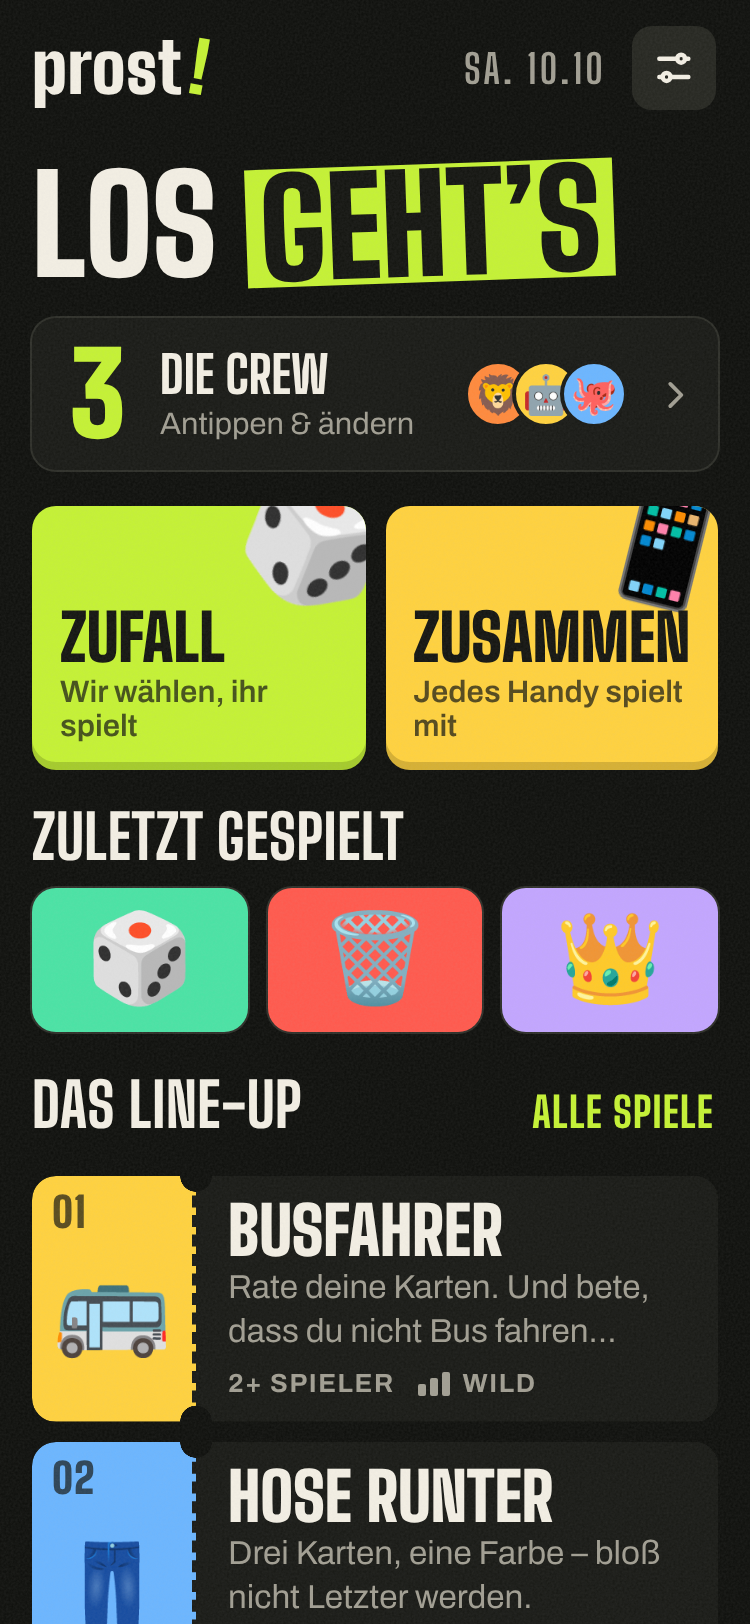
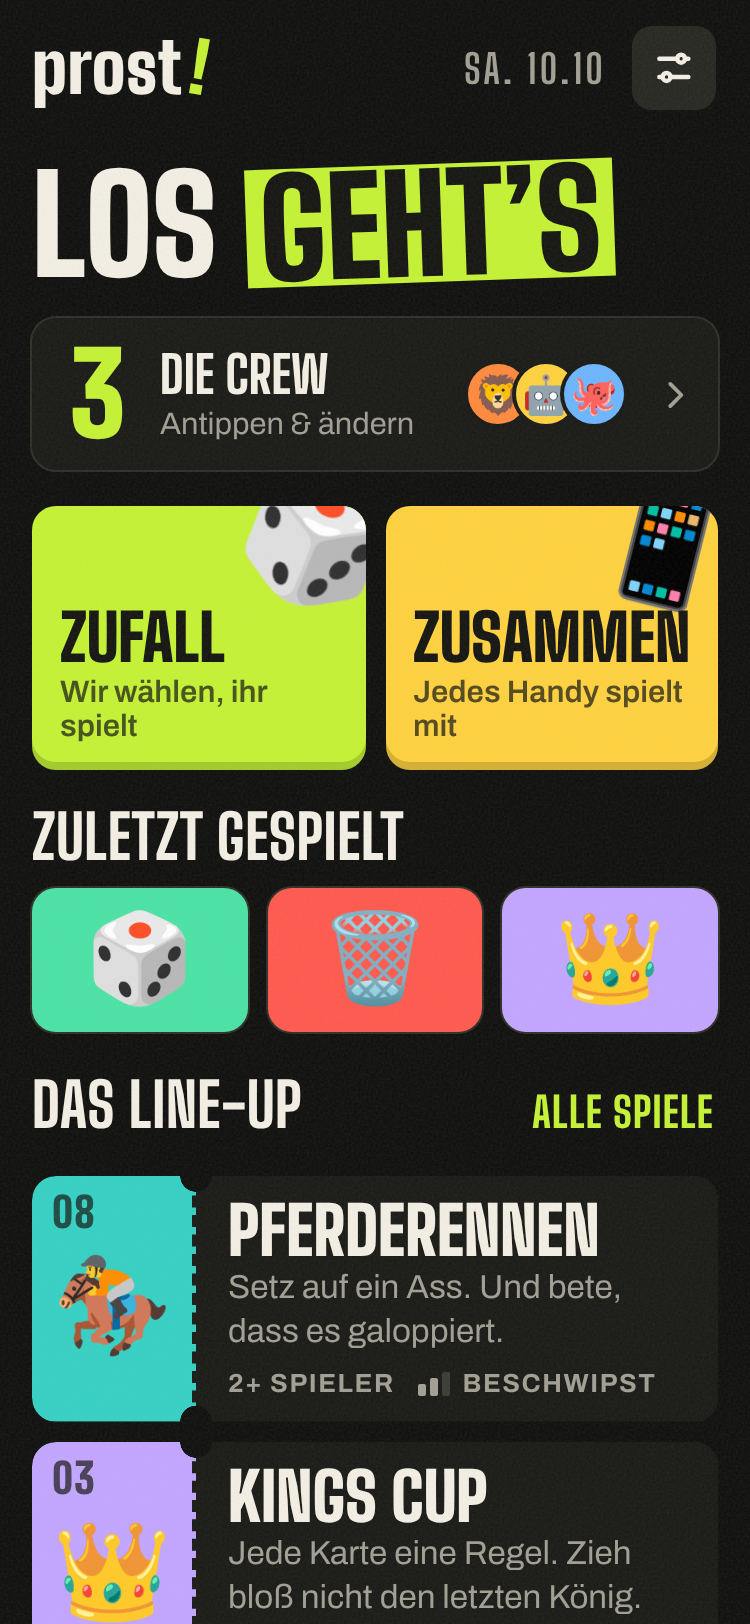
Home: a line-up of five random games that changes every few hours; All games: plain category chips, the picked one lime
Claude-Session: https://claude.ai/code/session_012V2LcTTs5UNWAkt63McFeS

Changed region(s): [[0.0307, 0.7081, 0.276, 1.0], [0.3067, 0.8929, 0.8587, 1.0], [0.3067, 0.7389, 0.8587, 0.8621]]

diff --git a/src/lib/lineup.test.ts b/src/lib/lineup.test.ts
@@ -1,0 +1,49 @@
+import { beforeEach, describe, expect, it } from 'vitest';
+import { lineup, LINEUP_SIZE } from './lineup';
+
+// Tests run without a browser: a plain stand-in for localStorage.
+const store = new Map<string, string>();
+globalThis.localStorage = {
+  getItem: (k: string) => store.get(k) ?? null,
+  setItem: (k: string, v: string) => void store.set(k, v),
+  removeItem: (k: string) => void store.delete(k),
+  clear: () => store.clear(),
+  key: () => null,
+  get length() {
+    return store.size;
+  },
+} as Storage;
+
+const GAMES = ['a', 'b', 'c', 'd', 'e', 'f', 'g', 'h'];
+const HOUR = 60 * 60 * 1000;
+
+describe('line-up', () => {
+  beforeEach(() => localStorage.clear());
+
+  it('shows five different playable games', () => {
+    const ids = lineup(GAMES, 0);
+    expect(ids).toHaveLength(LINEUP_SIZE);
+    expect(new Set(ids).size).toBe(LINEUP_SIZE);
+    expect(ids.every((id) => GAMES.includes(id))).toBe(true);
+  });
+
+  it('stays the same for a few hours, then changes', () => {
+    const first = lineup(GAMES, 0);
+    expect(lineup(GAMES, 5 * HOUR)).toEqual(first);
+    const later = lineup(GAMES, 7 * HOUR);
+    // The three games left out last time all come in.
+    expect(GAMES.filter((id) => !first.includes(id)).every((id) => later.includes(id))).toBe(true);
+  });
+
+  it('draws anew when a game in it is gone', () => {
+    const first = lineup(GAMES, 0);
+    const fewer = GAMES.filter((id) => id !== first[0]);
+    const next = lineup(fewer, HOUR);
+    expect(next).toHaveLength(LINEUP_SIZE);
+    expect(next).not.toContain(first[0]);
+  });
+
+  it('copes with fewer games than places', () => {
+    expect(lineup(['a', 'b'], 0).sort()).toEqual(['a', 'b']);
+  });
+});

diff --git a/src/screens/Library.tsx b/src/screens/Library.tsx
@@ -1,3 +1,4 @@
+import { useEffect, useRef } from 'react';
 import GameCard from '../components/GameCard';
 import TopBar from '../components/TopBar';
 import { GAMES } from '../games/registry';
@@ -12,6 +13,19 @@ export default function Library({ category }: { category: CategoryId | null }) {
     (a, b) => Number(!a.component && !a.online) - Number(!b.component && !b.online),
   );
   const current = CATEGORIES.find((c) => c.id === category);
+
+  // Bring the picked category into view. Only the strip scrolls: scrollIntoView would also move
+  // the whole page on iPhones.
+  const strip = useRef<HTMLDivElement>(null);
+  useEffect(() => {
+    const box = strip.current;
+    const on = box?.querySelector<HTMLElement>('.chip.active');
+    if (!box || !on) return;
+    const left = on.offsetLeft - box.offsetLeft;
+    if (left < box.scrollLeft || left + on.offsetWidth > box.scrollLeft + box.clientWidth) {
+      box.scrollTo({ left: left - (box.clientWidth - on.offsetWidth) / 2, behavior: 'smooth' });
+    }
+  }, [category]);
 
   const chip = (id: CategoryId | null, label: string) => (
     <button
@@ -33,9 +47,9 @@ export default function Library({ category }: { category: CategoryId | null }) {
       <TopBar onBack={() => navigate(paths.home)} />
       <h1 className="large-title">{current ? t(current.label) : t('All games')}</h1>
 
-      <div className="chips">
+      <div className="chips" ref={strip}>
         {chip(null, t('All'))}
-        {CATEGORIES.map((c) => chip(c.id, `${c.emoji} ${t(c.label)}`))}
+        {CATEGORIES.map((c) => chip(c.id, t(c.label)))}
       </div>
 
       <div className="ticket-list">

diff --git a/src/lib/lineup.ts b/src/lib/lineup.ts
@@ -1,0 +1,28 @@
+import { load, save } from './storage';
+
+const KEY = 'lineup';
+/** How many games the home screen shows. */
+export const LINEUP_SIZE = 5;
+/** A new random line-up every few hours. */
+const FRESH_MS = 6 * 60 * 60 * 1000;
+
+/**
+ * The games on the home screen: a random handful of the playable ones, kept for a few hours so
+ * the list doesn't jump around every time the app opens, then drawn anew.
+ */
+export function lineup(playable: string[], now = Date.now(), rand: () => number = Math.random): string[] {
+  const saved = load<{ at: number; ids: string[] } | null>(KEY, null);
+  const ids = saved?.ids.filter((id) => playable.includes(id)) ?? [];
+  const want = Math.min(LINEUP_SIZE, playable.length);
+  if (saved && now - saved.at < FRESH_MS && now >= saved.at && ids.length === want) return ids;
+  // Draw anew, preferring games that weren't in the last line-up.
+  const shuffled = (list: string[]) =>
+    list
+      .map((id) => ({ id, r: rand() }))
+      .sort((a, b) => a.r - b.r)
+      .map((x) => x.id);
+  const fresh = shuffled(playable.filter((id) => !ids.includes(id)));
+  const next = [...fresh, ...shuffled(ids)].slice(0, want);
+  save(KEY, { at: now, ids: next });
+  return next;
+}

diff --git a/src/screens/Home.tsx b/src/screens/Home.tsx
@@ -11,6 +11,7 @@ import { getLang, t } from '../i18n';
 import { headlineFor } from '../lib/headline';
 import { pick } from '../lib/random';
 import { recentGames } from '../lib/recent';
+import { lineup } from '../lib/lineup';
 import { navigate, paths } from '../lib/router';
 import { useRoom } from '../net/RoomProvider';
 import { useApp } from '../state/AppState';
@@ -60,7 +61,12 @@ export default function Home() {
   // The last three games played on this phone, newest first.
   const [recent] = useState(() => recentGames().map(findGame).filter((g): g is GameDefinition => !!g));
 
-  const featured = [...GAMES].sort((a, b) => Number(!a.component && !a.online) - Number(!b.component && !b.online)).slice(0, 8);
+  // A few playable games, drawn at random every few hours.
+  const [featured] = useState(() =>
+    lineup(GAMES.filter((g) => g.component || g.online).map((g) => g.id))
+      .map(findGame)
+      .filter((g): g is GameDefinition => !!g),
+  );
 
   // "Fri 09.10" / "Fr. 09.10"
   const date = new Date()

diff --git a/src/styles/global.css b/src/styles/global.css
@@ -797,8 +797,8 @@ h3 {
 }
 
 .chip.active {
-  background: var(--ink);
-  color: var(--bg);
+  background: var(--accent);
+  color: var(--on-accent);
   box-shadow: none;
 }
 
